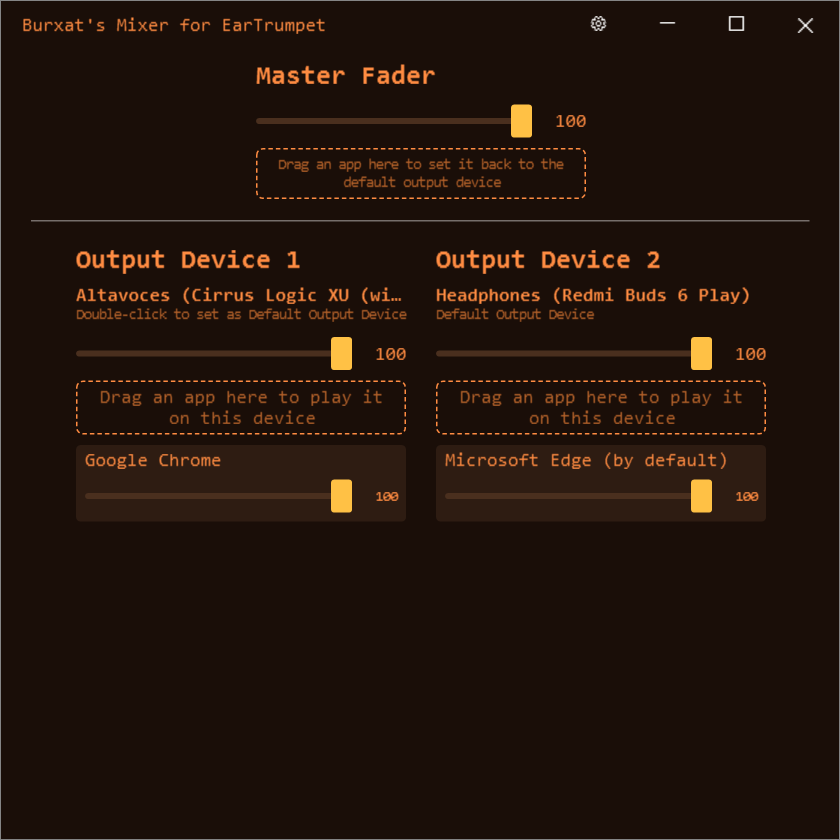
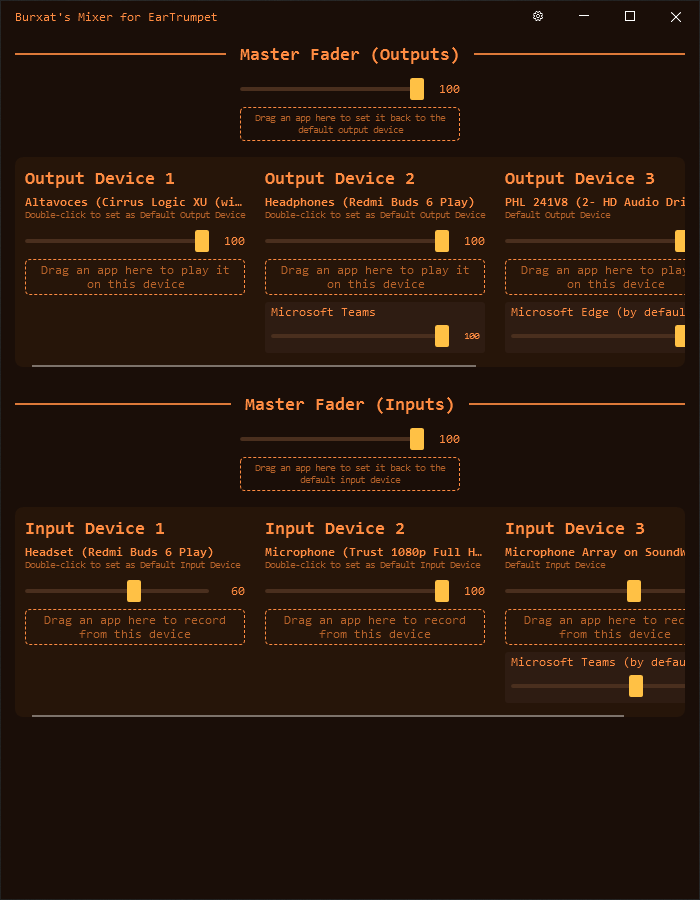
Update README for input devices, refresh screenshots, add dev doc
README now covers the two-zone (output/input) mixer layout, the new
Behavior settings, and window position/size persistence; screenshots
are retaken against the current UI. Adds
BURXAT_MIXER_DEVELOPMENT.md, a code-level walkthrough of what this
fork adds on top of stock EarTrumpet - file layout, the mixer window
architecture, theming, settings/persistence patterns, the launcher's
activation protocol, and gotchas specific to this codebase - so
anyone branching this fork has a map to start from.

Changed region(s): [[0.0, 0.0, 1.0, 1.0], [0.33, 0.65, 0.36, 0.681]]

diff --git a/BURXAT_MIXER_DEVELOPMENT.md b/BURXAT_MIXER_DEVELOPMENT.md
@@ -1,0 +1,83 @@
+# Developing Burxat's Mixer
+
+This document explains what this fork adds on top of stock [EarTrumpet](https://github.com/File-New-Project/EarTrumpet), code-wise, so anyone who wants to branch this out and keep building on it has a map to start from. It assumes you're already comfortable building the base project — see [COMPILING.md](./COMPILING.md) for that.
+
+Everything described here lives under `EarTrumpet/UI/Views/Burxat*`, `EarTrumpet/UI/ViewModels/{BurxatMixer,Mixer,SelectableOption,DisabledDevice}*`, `EarTrumpet/Interop/Helpers/StartupHelper.cs`, and the separate `BurxatMixerLauncher` project. A handful of original EarTrumpet files were touched too, listed below with why.
+
+## File map
+
+**New, Burxat-only:**
+- `UI/Views/BurxatMixerWindow.xaml(.cs)` — the main mixer window.
+- `UI/Views/BurxatMixerSettingsWindow.xaml(.cs)` — the settings window opened from the gear icon.
+- `UI/Views/ThemePalette.cs` — the six color palettes and the code that applies one live.
+- `UI/ViewModels/BurxatMixerWindowViewModel.cs` — holds the Output and Input mixers shown in one window.
+- `UI/ViewModels/BurxatMixerViewModel.cs` — one device-kind's worth of channels + master fader logic.
+- `UI/ViewModels/MixerChannelViewModel.cs` — one device column.
+- `UI/ViewModels/MixerAppViewModel.cs` — one app chip within a device column.
+- `UI/ViewModels/MixerDeviceKind.cs` — `Output`/`Input` enum threaded through the three view models above so labels ("Output Device 1" vs "Input Device 1", etc.) are generated, not duplicated per file.
+- `UI/ViewModels/BurxatMixerSettingsViewModel.cs` — backs the settings window.
+- `UI/ViewModels/SelectableOptionViewModel.cs` — a label + `IsSelected` + command, used for every chip-button group (scale, theme, start-with-Windows, stay-on-top).
+- `UI/ViewModels/DisabledDeviceViewModel.cs` — one row in a disabled-devices list.
+- `Interop/Helpers/StartupHelper.cs` — the HKCU Run-key toggle behind "Start with Windows".
+- `BurxatMixerLauncher/` — a separate, minimal project that builds `BurxatMixer.exe`.
+
+**Modified original files, and why:**
+- `App.xaml.cs` — tray menu entry, window creation, the `--burxat-mixer` launcher protocol (see below).
+- `AppSettings.cs` — every `BurxatMixer*` setting (scale, theme, stay-on-top, start-with-Windows, window placement) lives here, following the exact same `ISettingsBag`-backed property pattern as the original settings above it.
+- `DataModel/WindowsAudio/Internal/AudioDeviceManager.cs` — `Default` setter now sets `eConsole`, `eMultimedia`, *and* `eCommunications` roles (was `eMultimedia` only), matching what Windows' own Sound settings does. Needed so double-click/drag default-device actions actually reroute audio for apps using other roles.
+- `UI/ViewModels/DeviceCollectionViewModel.cs` — one-line fix, see "Known gotchas" below.
+
+## Architecture
+
+### One window, two mixers, one template
+
+`BurxatMixerWindowViewModel` holds `Output` and `Input`, each a `BurxatMixerViewModel` wrapping EarTrumpet's own `DeviceCollectionViewModel` — one built from `WindowsAudioFactory.Create(AudioDeviceKind.Playback)`, the other from `AudioDeviceKind.Recording` (see `App.xaml.cs`, `ContinueStartup()`).
+
+The window shows both, stacked, via one `DataTemplate` (`MixerZoneTemplate` in `BurxatMixerWindow.xaml`) used twice — `<ContentControl Content="{Binding Output}" ContentTemplate="{StaticResource MixerZoneTemplate}" />` and the same for `Input`. Add a third device kind and you'd add a third `ContentControl` the same way; you would not need a new template.
+
+Every label that differs between the two ("Output Device 1" vs "Input Device 1", "Set as Default Output Device" vs "...Input...", the drag-and-drop hint text) is a computed property on `MixerChannelViewModel`/`MixerAppViewModel`/`BurxatMixerViewModel` driven by a `MixerDeviceKind Kind` field passed down from `BurxatMixerWindowViewModel` at construction. Nothing in the XAML hardcodes "Output" or "Input" as a literal string.
+
+### Input-device support was mostly free
+
+EarTrumpet's audio layer was already flow-agnostic before this fork touched it: `AudioDeviceManager` picks `EDataFlow.eRender` vs `eCapture` from a single `Flow` property based on its `AudioDeviceKind`, `AudioPolicyConfigService` takes a flow in its constructor, and `DeviceCollectionViewModel`/`AppItemViewModel`/the Win32 policy-config wrappers never assume render specifically (`PersistedOutputDevice` is named after its original only use, but works identically for capture sessions). Adding full input-device mixing was therefore a case of instantiating a second `DeviceCollectionViewModel` and reusing the entire existing view-model/view stack — not new plumbing. If you're extending this further, check whether the piece you need already takes a flow/kind parameter before assuming you need to duplicate anything.
+
+### Theming
+
+Each Burxat window defines its own default palette inline as `<SolidColorBrush x:Key="BurxatWindowBackground" .../>` etc. in `Window.Resources`. `ThemePalette.ApplyTo(Resources, themeName)` overwrites those same keys live when the user picks a theme — see `ApplyTheme` in each window's code-behind, called both at construction and on `AppSettings.BurxatMixerThemeChanged`.
+
+This is deliberately a separate system from EarTrumpet's own `Theme:` attached-property system (`EarTrumpet.UI.Themes`), which follows the OS light/dark setting — Burxat's theme is picked manually and shouldn't fight with that.
+
+To add a theme or a new themed resource: add a property to `ThemePalette`, a value per `case` in `ThemePalette.For()`, a line in `ThemePalette.ApplyTo()`, and a matching default `<SolidColorBrush>`/`<FontFamily>` in every Burxat window's `Window.Resources` (so the window isn't blank before the theme is applied on construction).
+
+### Settings and persistence
+
+Every Burxat setting is a property on `AppSettings` backed by the app's existing `ISettingsBag` (registry-backed for unpackaged builds). Settings that other windows need to react to live-follow (theme, scale, stay-on-top) also raise a `Changed` event that windows subscribe to in their constructor and unsubscribe on `Closed`.
+
+Window position and size persistence (`BurxatMixerWindowPlacement`) follows the exact pattern the original `FullWindow`/`SettingsWindow` already use: a `WINDOWPLACEMENT?` property, restored via `User32.SetWindowPlacement` on `SourceInitialized`, saved via `User32.GetWindowPlacement` on `Closing`.
+
+"Start with Windows" is a plain `HKCU\...\CurrentVersion\Run` key (`StartupHelper.cs`), not EarTrumpet's Store `StartupTask` API — this build has no package identity to register one under.
+
+### The launcher and the activation protocol
+
+`BurxatMixerLauncher` is a separate, tiny project (own `.csproj`, added to `EarTrumpet.vs15.sln`) that builds `BurxatMixer.exe` into the same output folder as `EarTrumpet.exe`. All it does is find `EarTrumpet.exe` next to itself and start it with a `--burxat-mixer` argument.
+
+`App.xaml.cs` handles that flag on both sides of the single-instance mutex:
+- If this process wins the mutex (nothing else running), it proceeds through normal startup and opens the mixer once `CompleteStartup()` finishes.
+- If another instance already holds the mutex, this process instead connects to a named pipe (`BurxatMixerActivationPipeName`) that the running instance is listening on, then exits. The running instance treats any connection on that pipe as "open the mixer" and raises the window — see `StartBurxatMixerActivationServer`/`RequestBurxatMixerFromRunningInstance`.
+
+This means `BurxatMixer.exe` behaves the same whether EarTrumpet is already running or not, without needing to check that itself.
+
+## Known gotchas
+
+- **EarTrumpet's own `App.xaml` defines app-wide *implicit* styles** (no `x:Key`) for `ComboBox`, `CheckBox`, and `Button`. A plain `<ComboBox>` dropped into a Burxat window silently becomes the Settings page's search-as-you-type box instead of a normal dropdown — this is why every choice group in this fork (scale, theme, etc.) is a row of plain buttons bound to `SelectableOptionViewModel`, each with an explicit `Style="{StaticResource ...}"`. **Always set `Style` explicitly on any control you add to a Burxat window** — never rely on the platform default, since the platform default here isn't neutral.
+- **The `Window` element's own `Background` must stay whatever `DialogWindowStyle` sets** (`Transparent`) — `AllowsTransparency="True"` plus the custom `WindowChrome` need that for correct hit-testing. Painting the theme background directly on `<Window Background="...">` makes the *entire window click-through*. Paint it on a wrapping `<Border>` instead (see the root `<Border>` in `BurxatMixerWindow.xaml`).
+- **`DeviceCollectionViewModel.OnDefaultDevicePropertyChanged` calls `TrayPropertyChanged?.Invoke()`** (fixed in this fork — it was a bare `.Invoke()` in the original, which threw `NullReferenceException` the moment a `DeviceCollectionViewModel` existed with no subscriber, which is exactly what the new Recording-kind collection is). If you introduce another `DeviceCollectionViewModel` instance anywhere, don't assume every event on it has a guaranteed subscriber the way the original single instance did.
+- **Screenshots for testing**: Windows UI Automation gives false positives for some of these custom controls (e.g. it reported a `ComboBox` as "expanded" with nothing visibly open). A real screenshot is more trustworthy than automation state when something looks broken.
+
+## Adding a new toggle setting (worked example)
+
+To add something like "Stay on top" end-to-end:
+1. `AppSettings.cs` — a `bool` property (+ a `Changed` event if other windows need to react live).
+2. `BurxatMixerSettingsViewModel.cs` — an `ObservableCollection<SelectableOptionViewModel>` for the Off/On choices, populated in the constructor, kept in sync in `UpdateSelection()`.
+3. `BurxatMixerSettingsWindow.xaml` — a label + `ItemsControl` bound to that collection using the existing `ChoiceChipTemplate`.
+4. Wherever the setting needs to take effect (a window's code-behind, usually) — subscribe to the `Changed` event in the constructor, apply it once at construction, unsubscribe on `Closed`.

diff --git a/README.md b/README.md
@@ -1,6 +1,6 @@
 # Burxat's Mixer — an EarTrumpet expansion
 
-This is a personal fork of [EarTrumpet](https://github.com/File-New-Project/EarTrumpet), the excellent open-source volume mixer for Windows created by [File-New-Project](https://github.com/File-New-Project). Everything EarTrumpet already does is still here, untouched — this branch simply adds **Burxat's Mixer**, a standalone console window for people who want a single screen with a fader for every output device, a fader for every app, and a master fader that moves them all together.
+This is a personal fork of [EarTrumpet](https://github.com/File-New-Project/EarTrumpet), the excellent open-source volume mixer for Windows created by [File-New-Project](https://github.com/File-New-Project). Everything EarTrumpet already does is still here, untouched — this branch simply adds **Burxat's Mixer**, a standalone console window for people who want a single screen with a fader for every output device *and* every input device (microphones included), a fader for every app, and a master fader for each side that moves everything together.
 
 All credit for the original app — its design, its audio engine, its years of polish — belongs to the original EarTrumpet team. This fork exists to add one extra tool on top of their work, not to replace it. See [Credits](#credits) below.
 
@@ -19,25 +19,25 @@ Right-click EarTrumpet's tray icon and pick "Burxat's Mixer" to open it, alongsi
 
 ![Opening Burxat's Mixer from the tray icon's context menu](./Graphics/BurxatMixer/tray-menu.png)
 
-### A console for every device and every app
+### A console for every device and every app — outputs and inputs
 
-Each output device gets its own column with its own fader, and every app currently playing gets its own fader nested under whichever device it's actually playing on. Apps that haven't been pinned anywhere are labeled "(by default)" and automatically follow whichever device is the current Windows default.
+The window is split into two zones, stacked in one scrollable view: your output (playback) devices on top, your input (recording) devices below, each with their own master fader. Every device gets its own column with its own fader, and every app currently using it gets its own fader nested under whichever device it's actually routed to. Apps that haven't been pinned anywhere are labeled "(by default)" and automatically follow whichever device is the current Windows default.
 
-![Main mixer window](./Graphics/BurxatMixer/main-dark.png)
+![Main mixer window showing both output and input zones](./Graphics/BurxatMixer/main-dark.png)
 
-- **Master Fader** scales every device *relatively* — dragging it to 50% halves each device's current volume based on its own ratio, and dragging back to 100% restores exactly what you had.
-- **Drag and drop** an app onto a different device's column to move its audio there instantly. Drag it onto the Master Fader's drop zone to reset it back to "follow the default device."
-- **Double-click** a device's name, header, or "Double-click to set as Default Output Device" hint to make that device the new Windows default.
+- **Master Fader** scales every device in its zone *relatively* — dragging it to 50% halves each device's current volume based on its own ratio, and dragging back to 100% restores exactly what you had. Outputs and inputs each get their own master fader, independent of each other.
+- **Drag and drop** an app onto a different device's column (within the same zone) to move it there instantly — including microphones, for apps that let you pick an input device. Drag it onto a Master Fader's drop zone to reset it back to "follow the default device."
+- **Double-click** a device's name, header, or the "Double-click to set as Default..." hint to make that device the new Windows default — for either outputs or inputs.
 
 ### Right-click device management
 
-Right-click any device column to set it as the default output device or disable it entirely, without leaving the mixer.
+Right-click any device column — output or input — to set it as the default or disable it entirely, without leaving the mixer.
 
 ![Device context menu](./Graphics/BurxatMixer/context-menu.png)
 
 Disabling asks for confirmation first, since it's a device-level Windows setting, not just a mixer preference.
 
-### Settings: scale, themes, and disabled devices
+### Settings: scale, themes, behavior, and disabled devices
 
 The gear icon in the title bar opens a separate settings window. Every change here applies instantly to the mixer, no restart or "Apply" button needed.
 
@@ -45,7 +45,11 @@ The gear icon in the title bar opens a separate settings window. Every change he
 
 - **Scale** — resize the whole UI from 100% to 200%, for high-DPI displays or just bigger faders.
 - **Themes** — six palettes: Dark, Standard, and Chocolate, each with a pixel-art "Retro" variant with its own font.
-- **Disabled devices** — see any playback device Windows is currently hiding and re-enable it with one click, without digging through Control Panel.
+- **Start with Windows** — launch EarTrumpet automatically at sign-in.
+- **Keep Burxat's Mixer on top** — pin the mixer window above other windows while you work.
+- **Disabled devices** — see any playback *or recording* device Windows is currently hiding and re-enable it with one click, without digging through Control Panel.
+
+The mixer window also remembers its size and position between launches, the same way the scale and theme choices do.
 
 Here's the same mixer window in the Chocolate (Retro) theme:
 
@@ -53,7 +57,12 @@ Here's the same mixer window in the Chocolate (Retro) theme:
 
 ### Also included
 - Resizable window with minimize/maximize, and full support for Windows' Snap layouts.
-- "Output Device 1", "Output Device 2", etc. labels so it's always clear which fader controls which device, with device columns that stay centered as you resize the window.
+- "Output Device 1", "Input Device 1", etc. labels so it's always clear which fader controls which device, with device columns that stay centered as you resize the window.
+- `BurxatMixer.exe`, a small launcher (see [Download](#download)) that starts EarTrumpet and opens the mixer directly, or just raises it to the front if it's already running.
+
+## For developers
+
+Want to branch this out and build on it further? [BURXAT_MIXER_DEVELOPMENT.md](./BURXAT_MIXER_DEVELOPMENT.md) walks through what this fork adds on top of stock EarTrumpet: the file layout, how the two-zone mixer window is put together, the theming system, settings/persistence patterns, the launcher's activation protocol, and a few gotchas specific to this codebase that are worth knowing before you add new controls.
 
 ## Credits
 
